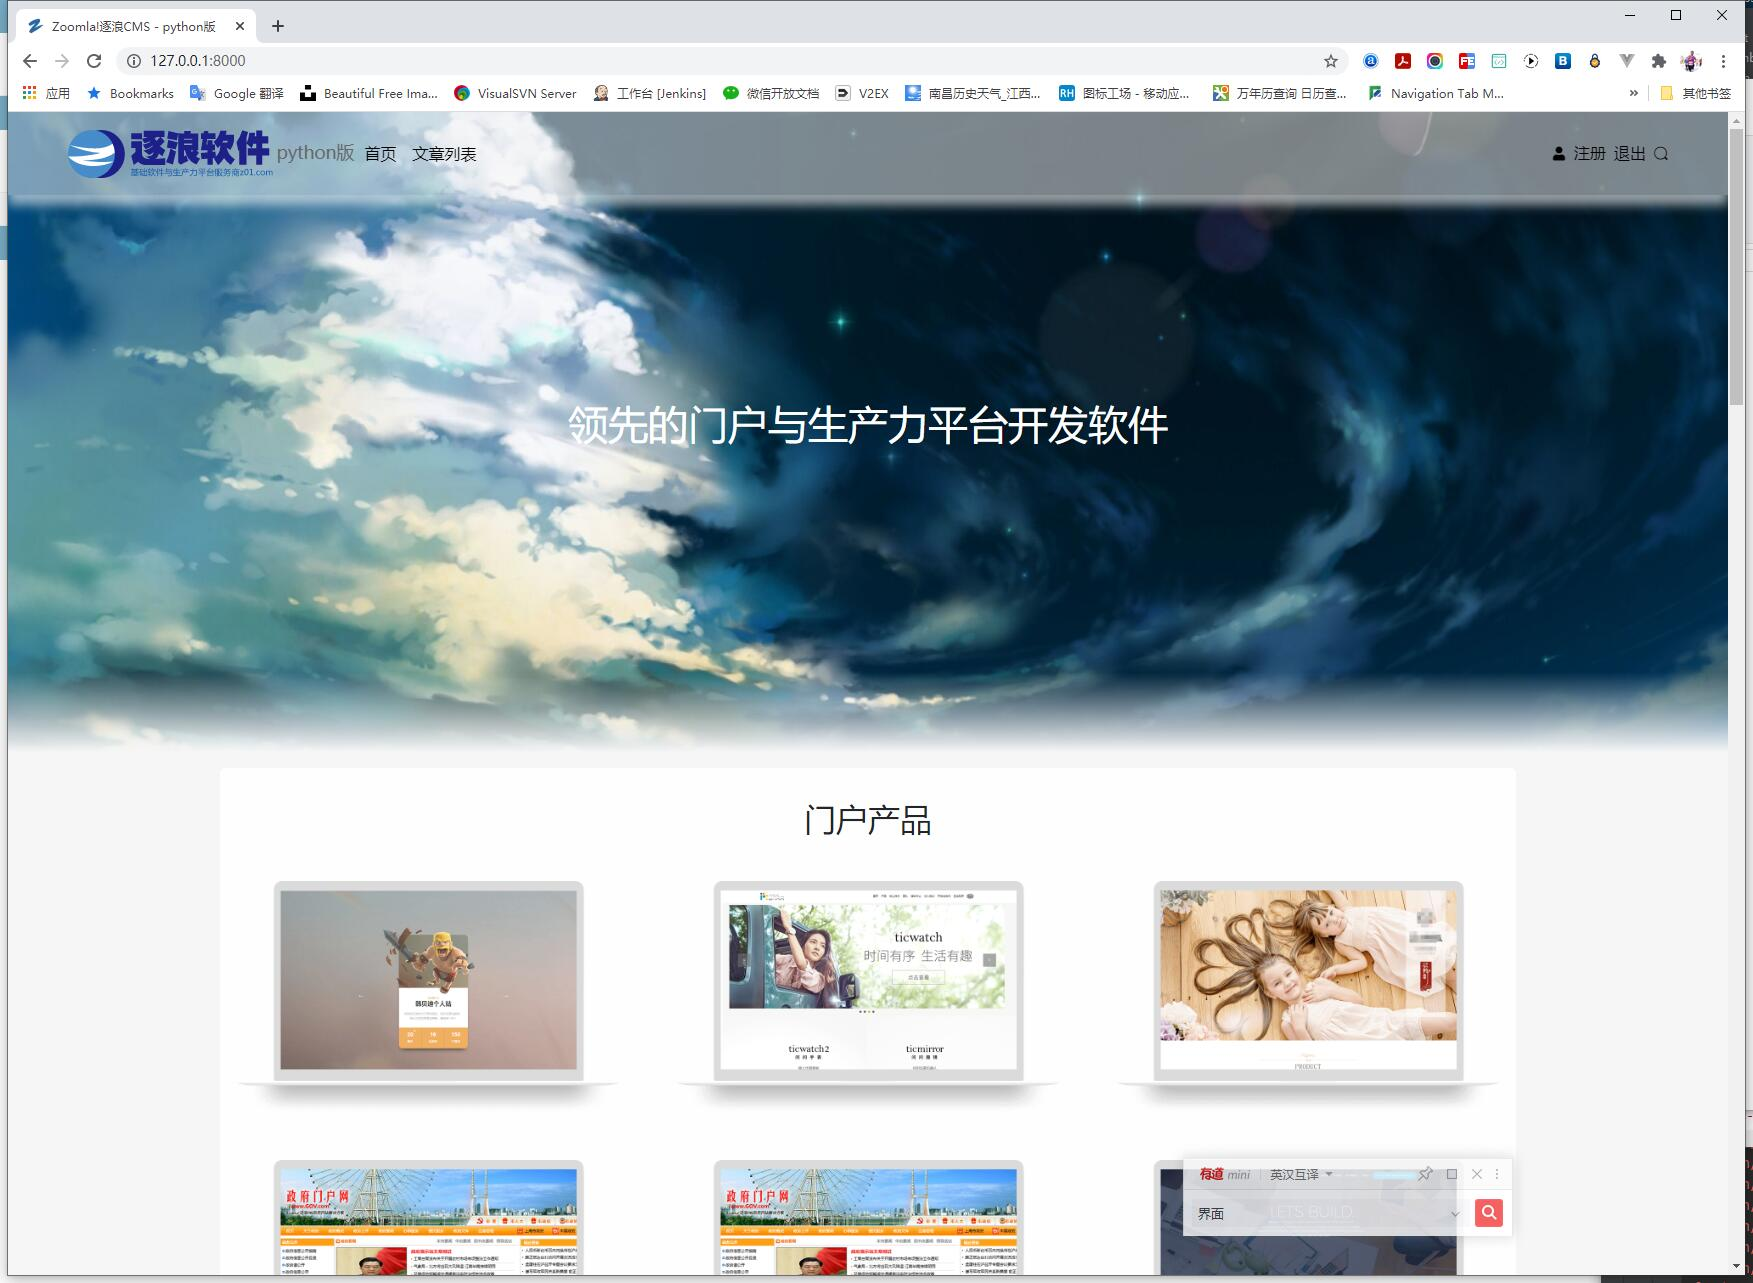
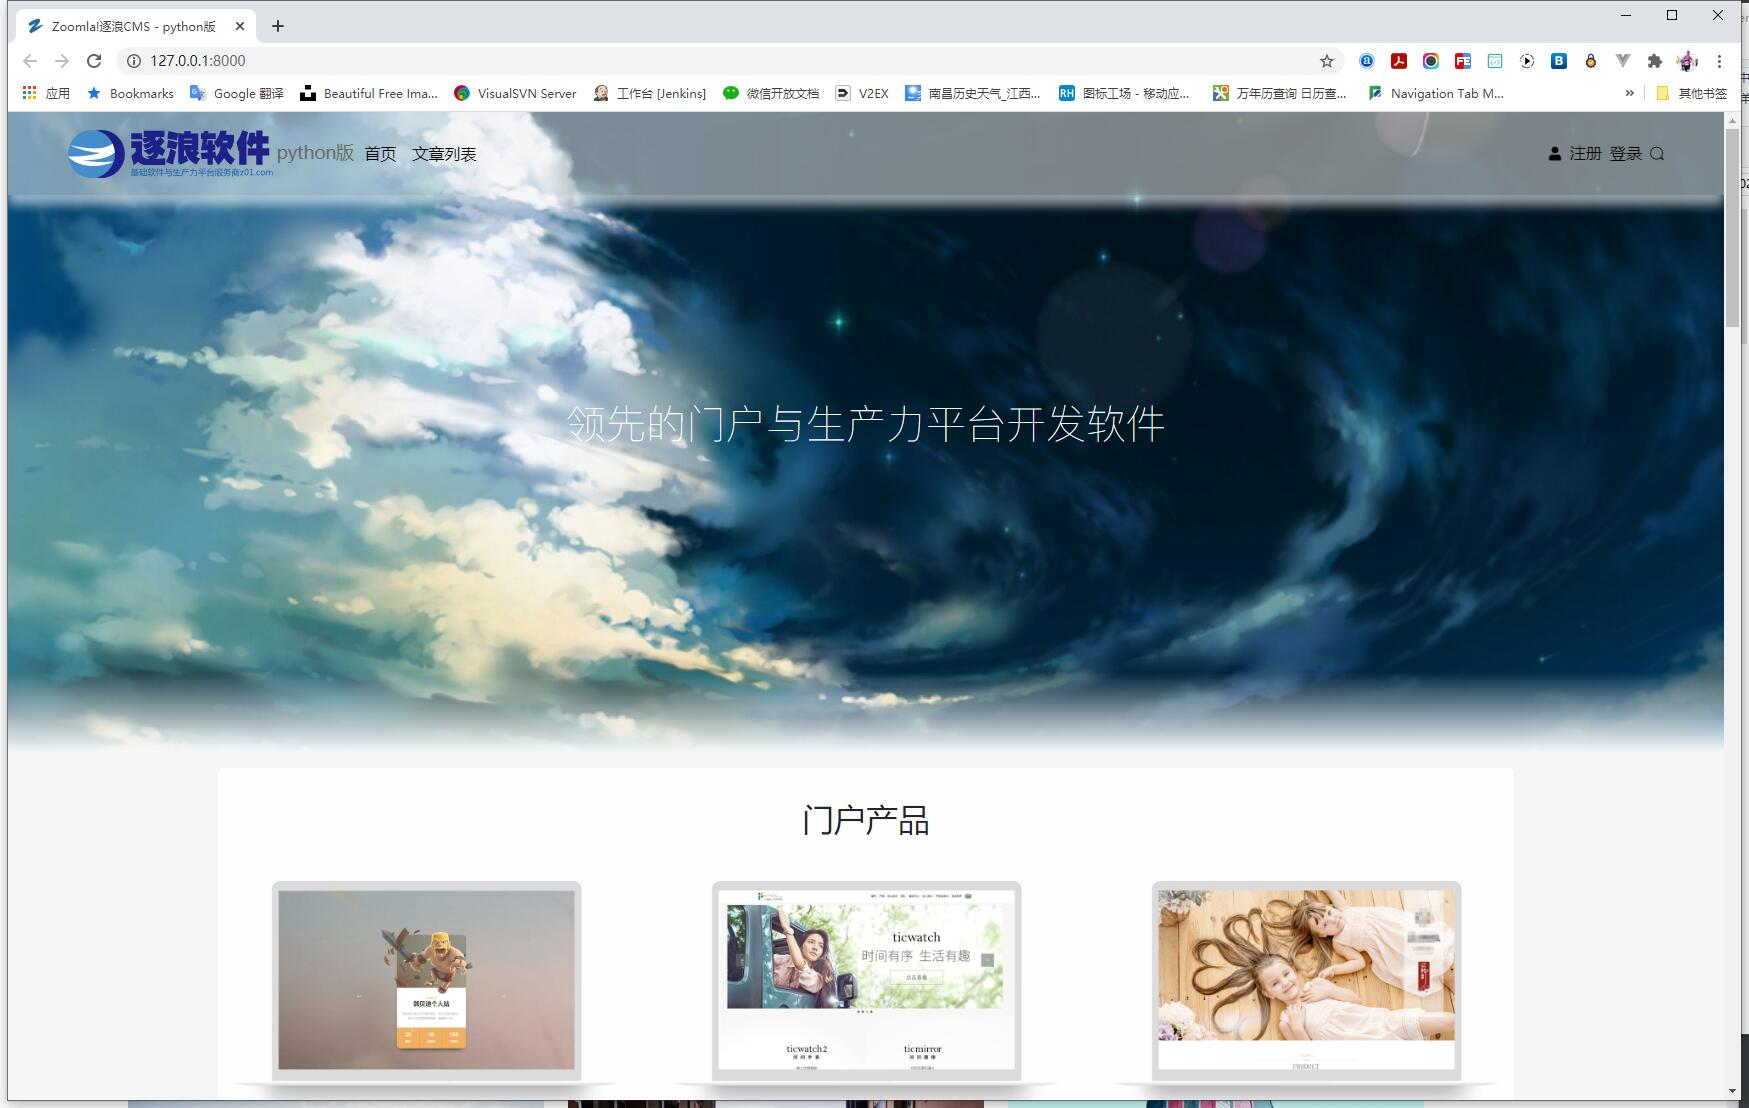
增加附图与readme

diff --git a/01-SourceCode/static/style.scss b/01-SourceCode/static/style.scss
@@ -40,7 +40,7 @@ li{margin-left: 0.5rem;}
 // 首页-banner
 .index_banner{@include dflex; position: relative; height:40rem; background:url("images/index_bg1.jpg") center no-repeat; background-size: cover;
 &:after{content: ''; width: 100%; height: 5rem; position: absolute; bottom: 0; left: 0; background: linear-gradient(to top, #F6F6F6, transparent);}
-p{font-size:2.5rem; color:#fff;}
+p{font-size:2.5rem; color:#fff;font-family: $苹方极细字体;font-weight: 100;}
 }
 
 .index_con{margin-top: 1rem; padding-top:2rem; padding-bottom:2rem; background: #FEFEFE; border-radius: 5px;}

diff --git a/01-SourceCode/static/css/style.css b/01-SourceCode/static/css/style.css
@@ -162,7 +162,9 @@ a {
     background: linear-gradient(to top, #F6F6F6, transparent); }
   .index_banner p {
     font-size: 2.5rem;
-    color: #fff; }
+    color: #fff;
+    font-family: Helvetica Neue, PingFang SC, Microsoft Yahei, \\5FAE\8F6F\96C5\9ED1, STXihei, \\534E\6587\7EC6\9ED1, sans-serif;
+    font-weight: 100; }
 
 .index_con {
   margin-top: 1rem;

diff --git a/README.md b/README.md
@@ -1,8 +1,6 @@
-<p align="center">
-  <a href="http://www.z01.com/">
-    <img src="https://code.z01.com/img/zoomla_logo.svg" width="600">
-  </a>
-</p>
+
+![在这里插入图片描述](https://www.z01.com/UploadFiles/Anony/content/md/j0nsUhqbDS.jpg "在这里插入图片描述")
+
 <br>
 
 
@@ -14,8 +12,13 @@
 - [ZoomlaCMS Python版](#zoomlacms-python版)
     - [关于逐浪CMS](#关于逐浪cms)
     - [项目说明](#项目说明)
+        - [1⃣自由开放](#1⃣自由开放)
+        - [2⃣性能强大](#2⃣性能强大)
+        - [3⃣支持SQLite、MSSQL、Mysql、PostgreSQL等多种类型数据库](#3⃣支持sqlitemssqlmysqlpostgresql等多种类型数据库)
+        - [4⃣基于逐浪CMS资深十多年技术](#4⃣基于逐浪cms资深十多年技术)
+        - [5⃣易于使用，与逐浪dotNET版共享技术与模板资源，一键开发](#5⃣易于使用与逐浪dotnet版共享技术与模板资源一键开发)
+        - [6⃣从CMS、icon图标、 photo图标、Font字库全web闭环自主知识产权](#6⃣从cmsicon图标-photo图标font字库全web闭环自主知识产权)
     - [界面欣赏](#界面欣赏)
-    - [部署与使用指引](#部署与使用指引)
 
 <!-- /TOC -->
 
@@ -48,6 +51,82 @@ QQ交流群号：
 
 ## 项目说明
 
+
+Python是跻身于当代IT世界最流行和代码最高效的编程语言之一。
+带着对技术的卓越追求、对客户的承诺、对品质的极致追求、对科技的敬重、对未来的向往，Zoomla!逐浪CMS团队在2021年到来之际，献上年度大作：
+
+** Zoomla!逐浪CMS python版 **
+
+Zoomla!逐浪CMS python版是上海逐浪软件团队专注10年研发、厚积薄发的结晶。
+六大特性，助力开源：
+### 1⃣自由开放
+产品继承了Python的开源、自由、高效诸多优点，可以快速部署，并自由的开销。
+众所周知，Python是一门开源的语言，基于开源协议，可以进行多种深度的开发，因而获得了主流的欢迎，包括微软、Google等巨头纷纷拥抱开源，加入开源。
+逐浪软件团队同样也建立了http://github.z01.com/ 平台，并不断的开源我们的项目 ，创始与业界同样的自由。
+
+### 2⃣性能强大
+
+Python作为一门全新语言，完全没有传统语言的历史包袱，可以说这是一门完全为云计算而设的语言。
+由于python基于自然语言和开发式架构，可以最大化的利用系统的性能，并引入开源的计算，因而应对大数据计算，可谓卓越。虽然不及C#、java等传统语言优秀，但通过开源计算，并在本版本中引入逐浪软件团队的调优和部署，可以支持大数据，算力强大。
+
+产品继承了Python的开源、自由、高效诸多优点，可以快速部署，并自由的开销，采用scss、svg、zico，无论是前端还是后台，都卓越异常。
+
+
+### 3⃣支持SQLite、MSSQL、Mysql、PostgreSQL等多种类型数据库
+
+源于python的开放性，现在，你可以自由的接入sqlite、mssql、mysql、PostgreSQL、Oracle等优秀的数据，一切只要根据自己的需要选型、并进行实例化即可。
+其中mysql的开放性，源得广大用户的芳心。
+而PostgreSQL作为今天世界上最先进的关系型数据库，更加深得云计算、深度学习用户的喜好（PostgreSQL 具有极强的稳定性。MySQL经常出现的Server级数据库丢失，反之，PostgreSQL的 Innodb 等引擎具有极强的稳定性,且支持许多强大的开源第三方辅助工具， PostgreSQL 不只是一个关系型数据库，还是一个面向对象数据库——支持嵌套，及一些其他功能）。
+同时，诸如微软SQL server数据库这样的大型数据库，服务于包括纽约证券事务所、美国航空局、欧盟诸多大型平台，更是大作，同样可以在Zoomla!逐浪CMS python版中自由引入。
+
+### 4⃣基于逐浪CMS资深十多年技术 
+
+web开发技术，不止是引用一个框架这么简单。
+作为：
+- Bootstrap中文站的贡献与维护者
+- alexa中国排名第一的CMS厂商
+- 中国唯一具备自主字库和CMS双知识产权的软件公司
+逐浪CMS团队，在python版CMS中，融入了自己对于web产品的深度理解，并支持自由定义字段、框架，从工具到资源，轻松入手。
+
+### 5⃣易于使用，与逐浪dotNET版共享技术与模板资源，一键开发
+
+是的，即使是python版逐浪CMS，也可以共享dotNET core版甚至是MVC经典版的Zoomla!逐浪CMS的模板资源、技术方法、产品思路以及插件体系。
+一切平滑迁移，完全在逐浪软件的家族内自由流转。
+
+### 6⃣从CMS、icon图标、 photo图标、Font字库全web闭环自主知识产权
+
+17年来，逐浪CMS软件，通过自己的勤奋，形成了全自主知识产权的积极，其中包括：
+- 逐浪CMS dotNET版
+- 逐浪OA
+- ERP产品线
+- VR与虚拟现实产品线
+- 逐浪字库
+- zico图标库
+- 智图http://p.ziti163.com企业用图平台
+- 方言http://a.ziti163.com语音深度研究平台
+- 逐浪cms python版
+- ……
+我们所有的积累，都是指向全闭环、全自主知识产权，作为国家高新科技企业、作为国内web技术的领导者，技术担当，推进行业发展。
+
+
 ## 界面欣赏
 
-## 部署与使用指引
+
+![imgname](02-Interface/Account会员中心页.jpg)
+![imgname](02-Interface/AddContent添加文章.jpg)
+![imgname](02-Interface/Article文章页.jpg)
+![imgname](02-Interface/Blog文章列表.jpg)
+![imgname](02-Interface/Comment评论页.jpg)
+![imgname](02-Interface/HomePage首页.jpg)
+![imgname](02-Interface/ManageLogin后台登录.jpg)
+![imgname](02-Interface/Manage后台.jpg)
+![imgname](02-Interface/Register注册页.jpg)
+![imgname](02-Interface/Search搜索结果页.jpg)
+![imgname](02-Interface/TagManage管理员管理.jpg)
+![imgname](02-Interface/UserManage用户管理.jpg)
+
+
+<!-- ## 部署与使用指引
+
+
+> 待更新 -->
